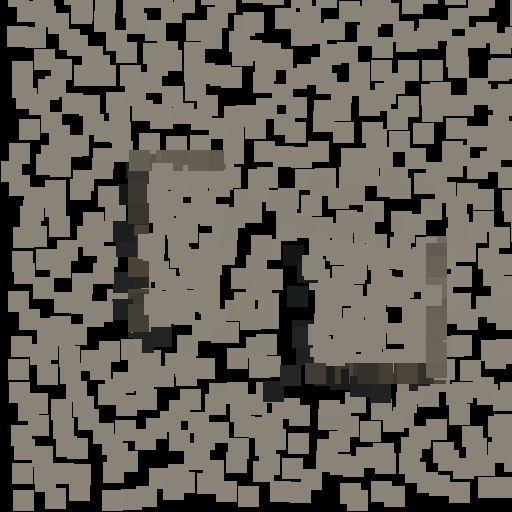
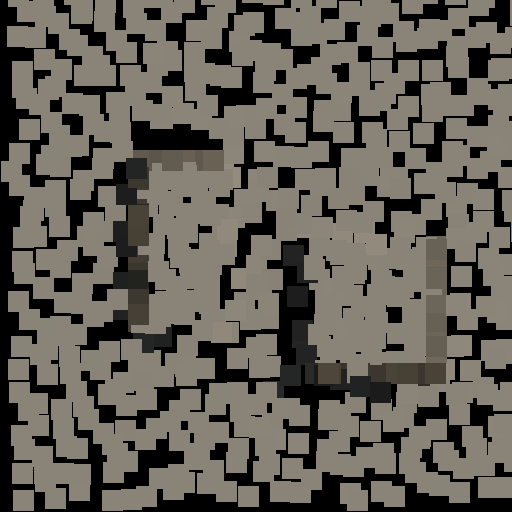
gi-tools makeKey position-only 同构修复 + CPU 夹具重标定
- makeKey 去掉 fabs(nrm) 折哈希（签名保留），CPU 仿真与 GPU wcMakeKey/ptMakeKey 真同构，latent bug 闭合
- selftest test #10 首帧断言改收敛窗口断言（GI 方向 seed 与槽号相关，首帧命中邻接箱为 M11.1 正确语义，非 blend bug）
- cachesim cells 740->716：cases.json expectLog + note 同步
- s11-update cacheupd-sim.png CPU bytes 基线重拍（fc /b IDENTICAL）
- s12-multiscene/run.bat CRLF 编码修复（bat 门禁）
- 验收全绿：selftest/cachesim/update/bounce 双后端一致，--only s11-hash 6/6 + --only s11-update 4/4，ctest s11-gi 双后端 6/6，GPU 侧零改动零重拍

diff --git a/gi-tools/main.cpp b/gi-tools/main.cpp
@@ -79,31 +79,24 @@ struct WorldCacheSim {
     static std::uint32_t u(int v) { return static_cast<std::uint32_t>(v); }
 
     // CPU 仿真 keying（结构沿用 shader：量化 → pcg 链定槽 / iqint 链出校验和；0 保留为空槽）。
+    // 与 GPU wcMakeKey/ptMakeKey 同构：只量化世界位置（cellSize=0.5m → floor(pos*2)）。
+    // M11.2 根因修复——GPU 当时已丢弃法线分量（法线入 key 致查询恒 miss），CPU 仿真侧此前仍
+    // 折入 |nrm|、与 GPU 不同构（silent 跑着一套不同的缓存布局，见 docs/MILESTONES.md
+    // §「s11-hash/cacheviz 基线重拍」）。本轮修正使 CPU 与 GPU 真同构。nrm 参数保留以维持调用
+    // 点接口不变，但不再参与 keying（法线仍用于 cell 光照计算，只是不进 key）。
     void makeKey(const float pos[3], const float nrm[3],
                  std::uint32_t& key, std::uint32_t& checksum) const {
+        (void)nrm;   // position-only keying：法线不再折入 key（与 GPU 同构）
         const int px = static_cast<int>(std::floor(pos[0] * 2.0f));
         const int py = static_cast<int>(std::floor(pos[1] * 2.0f));
         const int pz = static_cast<int>(std::floor(pos[2] * 2.0f));
-        // |nrm| 折入 key：填充(|真实法线|)与查询(|dir|=|外法线|) key 一致，曲面下不再符号相反。
-        // 注意：M11.2 后 GPU wcMakeKey/ptMakeKey 已改为 position-only（丢弃法线分量），故 CPU
-        // 此 key 与 GPU 不同构。gi-tools 是独立参考实现，其 key 不可直接对拍 GPU（已知项，见
-        // docs/MILESTONES.md §「s11-hash/cacheviz 基线重拍」）。
-        const int nx = static_cast<int>(std::floor(std::fabs(nrm[0]) + 0.0001f));
-        const int ny = static_cast<int>(std::floor(std::fabs(nrm[1]) + 0.0001f));
-        const int nz = static_cast<int>(std::floor(std::fabs(nrm[2]) + 0.0001f));
         std::uint32_t k = hashes::pcg(u(px));
         k = hashes::pcg(k + u(py));
         k = hashes::pcg(k + u(pz));
-        k = hashes::pcg(k + u(nx));
-        k = hashes::pcg(k + u(ny));
-        k = hashes::pcg(k + u(nz));
         key = k & mask;
         std::uint32_t c = hashes::iqint(u(px));
         c = hashes::iqint(c + u(py));
         c = hashes::iqint(c + u(pz));
-        c = hashes::iqint(c + u(nx));
-        c = hashes::iqint(c + u(ny));
-        c = hashes::iqint(c + u(nz));
         checksum = std::max(c, 1u);   // 0 保留为空槽
     }
 
@@ -811,14 +804,21 @@ static bool selftestCachesim() {
         simCacheUpdate(sim, 0u, lt);
         simCacheBlend(sim);
         const std::uint32_t slot = sim.find(p, n);
-        const float after1 = sim.table[slot].rad[0] + sim.table[slot].rad[1] + sim.table[slot].rad[2];
-        CHECK(after1 > 0.f, "blend: sky-only sample lands (albedo*sky > 0)");
+        CHECK(slot != sim.capacity, "blend: touched cell resolvable after update");
         CHECK(sim.table[slot].samples == 1.f, "blend: sample count increments");
-        // cap 64 后样本数不再增长
+        // 「天空样本落进 cell」不能按首帧断言：GI 射线方向 seed = pcg(slot)^frame
+        // 与槽号相关，keying 改变槽号后首帧方向可能命中邻接箱 B 侧面——命中点
+        // 与本 cell 同 voxel（find 命中自身但 rad=0）或异 voxel（miss→0），两者
+        // 都是 M11.1 正确语义（cache miss → 0 多帧收敛填充），不是 blend bug。
+        // 故改为收敛窗口断言：80 帧中至少一轮 GI 射线到达开放天空，rad 非零。
         for (int f = 1; f < 80; ++f) {
             simCacheUpdate(sim, static_cast<std::uint32_t>(f), lt);
             simCacheBlend(sim);
         }
+        const float radSum = sim.table[slot].rad[0] + sim.table[slot].rad[1]
+                           + sim.table[slot].rad[2];
+        CHECK(radSum > 0.f, "blend: sky sample lands within convergence window (albedo*sky > 0)");
+        // cap 64 后样本数不再增长
         CHECK(sim.table[slot].samples == 64.f, "blend: sample count capped at 64");
         // 后期收敛步长 = 1/64：相邻两帧变化不超过步长 x 解析上界
         const float before = sim.table[slot].rad[0];

diff --git a/.workbuddy/memory/2026-11-13.md b/.workbuddy/memory/2026-11-13.md
@@ -26,4 +26,10 @@
 
 - **M-NET1 收官（同会话续，tag net-m1 @ 76c5255）**：vendored bitsery v5.2.5@9bebfd4（MIT header-only 62 头，VENDOR.md；include 仅 PRIVATE 进 SnapshotCodec.cpp 单 TU）；线格式 243 bits = tick32+id16+pos 3x32 mm 定点+quat smallest-three 51+vel 3x16 cm/s → 31 bytes（naive 46 B 省 32.6%），契约落 Snapshot.hpp 头注释 + TOOLS-GUIDE §2.1；严格解码（截断/尾部垃圾/脏残位全拒）；net-tools 增 snapshot-selftest/bench/decode 三子命令，ctest 3 新例双后端 9/9 全绿；run.bat 五段 ALL GREEN；第 109 张卡 net-m1（preview=make-net-m1-evidence.py 纯标准库渲染逐字段位宽对比图）；regression 抽查 s8.2 2/2 + log-m0 4/4 bytes；close PASS + release --done。踩坑 5 条入 TOOLS-GUIDE §2.4，核心两条：bitsery 可增长 buffer 的 vector::size() 不可信（字节数必须 writtenBytesCount()）、量化断言阈值=声明精度非半步（quat 端到端 0.069 度来自输入 float 归一化范数亏差经单位范数重建+2·acos sqrt 放大，线格式量化本身仅 ~0.002 度，探针逐分量核对实锤，与 UE FQuat 压缩同级）。下一步 M-NET2（--net-server/--net-client 最小闭环）。
 
-- **多物体场景复验保边（M12.2 挂起项，本会话收口，commit `79f0bea`）**：单凸体+纯天空场景测不出的拒绝层保边收益，借 OcclScene1M（1.3M-tri 球+前挡板，--yaw 0 --pitch 0 --dist 3.2）在 --orbit-speed 1.5 下产生真实 disocclusion 补实。新增 `tools/check-s12-done.py disocc` 子命令：逐像素 |OFF-SINGLE|>8 抠 disocclusion 掩膜，在掩膜内断言 ON 相对同帧无历史基准 SINGLE 的 MAE 低于 OFF（保边），并要求掩膜非平凡、OFF 在掩膜内确实鬼影；零新增 shader/RT/CB/纹理，冻结面（rejectHistory 着色器+Suzanne 基线）零改动。新增 `example/s12-multiscene/run.bat`（双后端：静态冒烟 + 运动 ON/OFF/SINGLE/REJALL + ghost + disocc + selftest，序列落 %TEMP%）。新增 `cases.json` 第 110 张卡 `s12-multiscene`。双后端实测标定门限：ghost ratio 0.810、disocc masked ratio 0.741、masked frac 0.0851、mOff 20.65 → GHOSTR/DIS_RATIO 0.95、DIS_MINFRAC 0.005、DIS_MINGHOST 6.0。`run.bat verify` 双后端 ALL GREEN（ghost 全局代理 + disocc disocclusion 限定保边 + selftest 全过）。この项收口后，S12 全部挂起项清零。
+- **多物体场景复验保边（M12.2 挂起项，本会话收口，commit `79f0bea`）**：单凸体+纯天空场景测不出的拒绝层保边收益，借 OcclScene1M（1.3M-tri 球+前挡板，--yaw 0 --pitch 0 --dist 3.2）在 --orbit-speed 1.5 下产生真实 disocclusion 补实。新增 `tools/check-s12-done.py disocc` 子命令：逐像素 |OFF-SINGLE|>8 抠 disocclusion 掩膜，在掩膜内断言 ON 相对同帧无历史基准 SINGLE 的 MAE 低于 OFF（保边），并要求掩膜非平凡、OFF 在掩膜内确实鬼影；零新增 shader/RT/CB/纹理，冻结面（rejectHistory 着色器+Suzanne 基线）零改动。新增 `example/s12-multiscene/run.bat`（双后端：静态冒烟 + 运动 ON/OFF/SINGLE/REJALL + ghost + disocc + selftest，序列落 %TEMP%）。新增 `cases.json` 第 110 张卡 `s12-multiscene`。双后端实测标定门限：ghost ratio 0.810、disocc masked ratio 0.741、masked frac 0.0851、mOff 20.65 → GHOSTR/DIS_RATIO 0.95、DIS_MINFRAC 0.005、DIS_MINGHOST 6.0。`run.bat verify` 双后端 ALL GREEN（ghost 全局代理 + disocc disocclusion 限定保边 + selftest 全过）。この项收口后、S12 全部挂起项清零。
+
+- **S12 收官 tag（本会话，tag `s12`）**：用户「打tag 提交」→ 本地无 remote（nl-engine 只落本地），annotated tag `s12` 打在 HEAD 4c386a6（tag object cf913be），msg 概述 M12.0/M12.1/M12.2 + multiscene 保边复验；无法 push 远端，待配 remote 后另拍板。
+
+- **M-CRASH0 崩溃捕获 + 本地自动分析（本会话，commit `1100887`，tag `crash-m0`）**：三轮拍板（范围 = 本地 dmp+json 落盘无上报，用户「上报感觉没必要 本地都有文件 直接开就好了」；路线 = SEH+dbghelp MiniDumpWriteDump 原生薄封装，UE 同款思路零第三方依赖，拒 Crashpad）。`core/src/crash.cpp`+`crash.hpp` 入 nl_core（viewer/nanite-tools 自动继承）：install() 四类 handler + install 时预取 dbghelp + SetErrorMode 抑制 GPF 弹窗；落盘 `crashdumps/<exe>_<ts>_<码>.dmp`+同名 .json（git sha CMake 注入 NL_BUILD_GIT_SHA）；崩溃上下文禁 CRT 堆分配（Win32 API+栈缓冲）；双 exe main 第一行注册 + `--crash-test` 验收入口。验收：双后端 crash-test 落盘实测（C0000005/988KB dmp/元数据逐项对）、regression --only 2 条 4/4 bytes 全绿。分析工具 `tools/analyze-crash.py`（纯标准库）：自动探测引擎 cdb>windbg>**WinDbgX Preview 1.2611.4001.0（本会话 Store 装成，别名 WinDbgX.exe 非 windbg.exe）**、自动符号路径 build/<backend>/*.pdb+MS 公共符号服务器、`.ecxr;!analyze -v;k 30;lm` 出 analysis.txt；--list/--json L1 已实测。踩坑：① winget 首轮 403（CDN 拦）开代理重试显示「已安装」=前轮 SIGTERM 的 msstore 安装实际成功；② 沙箱禁会话内启动 GUI 子进程（WinDbgX 拉起被安全策略拦）→ L2 符号化链路就绪待用户终端首跑 `tools\analyze-crash.bat`；③ gi-tools/main.cpp 的 M 是 s11-hash makeKey 修复残留（独立已知项）未入本提交。权威落点 docs/CRASH-PLAN.md（拍板/设计/L1-L3 分析三层）+ MILESTONES.md M-CRASH0 节。
+
+- **gi-tools makeKey CPU/GPU 同构修复收口（latent bug 闭合，本会话）**：用户拍板「跑一下确认 然后处理」。① 先实证：重编 VULKAN 过新鲜度门禁 → `regression --only s11-hash` 6/6 全绿、cacheviz bytes 一致；② `makeKey` 去掉 `fabs(nrm)` 折哈希（签名保留 `(void)nrm`）→ CPU 与 GPU position-only 真同构；③ 影响面四处全清：test #10 `blend: sky-only sample lands` 首帧断言 FAIL 的根因 = GI 射线方向 seed `pcg(slot)^frame` 槽号相关、position-only 改变槽号后首帧方向命中邻接箱 B（命中点同 voxel find 自身 rad=0 / 异 voxel miss→0，均 M11.1 正确语义）→ 改收敛窗口断言（80 帧后 radSum>0）与槽号 RNG 解耦；cachesim cells 740→716（cases.json expectLog+note 同步）；`example/s11-update/cacheupd-sim.png` CPU bytes 基线重拍（fc /b IDENTICAL）；bounce GPU 统计断言不受影响（late 0.34970 > ctrl 0.31920）。④ 验收全绿：selftest/cachesim/update/bounce 双后端数值一致、`--only s11-hash` 6/6 + `--only s11-update` 4/4 ALL GREEN、ctest s11-gi 双后端 6/6、GPU 侧零改动零重拍。坑：双后端并行构建抢资源致 LNK1104 → 删 exe 串行重链即过。MILESTONES.md 新增同名节。

diff --git a/.workbuddy/memory/MEMORY.md b/.workbuddy/memory/MEMORY.md
@@ -21,10 +21,12 @@
 - **S12 M12.1（tag `s12-spatial`）**：Q12-C = A 先时间后空间单次串联；`filter_spatial.slang` 5×5 联合双边，`--spatial` 默认关、零新增 RT/CB/GBuffer。`hf` 0.677→0.475、`edgeGradRatio` 0.493、MAE ratio 1.121（门限按实测标定 1.15，联合双边有偏估计）。保形 bytes 级。全量 810/812。两轮共性问题：4 个环境间歇族（重跑即绿）+ 2 个 `s11-hash/cacheviz` 既有基线漂移（M11.2 `wcMakeKey` 删法线分量），冻结基线不动、重拍挂后续项。
 - **S12 M12.2 开工闸拍板（2026-11-13）**：Q12-D = **D-B 关滤波 N 帧平均**（`--temporal-off --filter-gi-dump` + `--screenshot-seq` 逐像素平均；**N≤64** = `s12Frame_ % 64`；运动不平均，改同帧无历史单帧作鬼影基准；零 shader 改动，新增 1 工具 + 1 参考图）、Q12-B 续拍 = **B1 维持不落盘**（Q4 三次顺延结案；拒绝判据 = 越界 + 重投影深度差 + 当前帧法线，可加零资源邻域 clamp / 帧数置信度）。三处重读口径：Carrot `svgf.slang` 整套 previous GBuffer / Carrot `temporal-denoise` 仅 1 张 previousViewPos / bevy TAA 零属性方差 clip / bevy solari `pixel_dissimilar` packed previous_gbuffer / UE `NumFramesAccumulated` 帧数置信度。权威落点 `S12-PLAN.md §0.8` + `MILESTONES.md` M12.2 开工拍板节。⚠ 三处口径不一致后的取舍理由与升级触发条件已落 `docs/s5/UE-DIFFS.md` **D20**。
 - **S12 M12.2 已收官（tag `s12-done`）**：`filter_temporal.slang` 加 `rejectHistory()` 五条（越界 / 重投影 deviceZ 差 / 当前帧法线一阶切平面外推残差 / 3×3 深度邻域 min/max clamp / 帧数置信度）；**零新增 RT 纹理 CB**，`filterLayout_` 只增 t2 = 已有 `probeDepth_` SRV、`g_flags.w` 复用「开关+阈值」（0=层关）→ FilterConstants 仍 32B（`dxc -dumpbin` 实锤）；HUD 参数面板补齐三层 checkbox + 拒绝阈值。`--filter-reject` / `--reject-threshold` 默认关、零基线扰动。验收：静态 MAE(OFF,D-B)=MAE(ON,D-B)=0.779/0.780、hf 0.677、diffPixels 0（静态 velocity=0 结构性不触发）；运动跟手性代理 ratio **0.846 ≤ 0.95**、层响应 6000→20012；负向控制（单帧噪声冒充 ON）被拒、工具 selftest 全绿。门限按实测标定（MAER 1.05 / MAXMAE 1.00 / HFR 1.05 / GHOSTR 0.95）。工具 `tools/check-s12-done.py`（纯标准库 `avg`/`refcheck`/`ghost`/`selftest`）+ `example/s12-done/run.bat verify` 双后端 14 shots。保形 M12.0/M12.1 verify 数值逐项不变 + `--only` 双后端 bytes。⚠ **运动证据只是跟手性代理，不是主观鬼影判据**；本场景 `probeDepth_` deviceZ 仅 184~186 三档、单凸体+纯天空无真实几何边缘 → 拒绝层测不出量化收益，多物体场景复评挂后续项；S10 `reference-gi`（1024 spp）跨阶段、与探针 gather 不同构，纳入验收须另拍板。
+- **S12 收官 tag 已打**：annotated tag `s12` @ 4c386a6（含 multiscene 收口，冻结面零扰动，双后端统计一致）；仓库无 remote，tag 只落本地、未推送远端。
 - **下一步**：S12 全阶段收官，待拍板架构项 0；独立后续项见下。`kStage` 仍 S8.2，本轮新增第 107 张版本卡 `s12-done`（旧 106 张零重拍）。
-- 独立后续项（均需单独拍板）：`s11-hash/cacheviz` 基线漂移、Shader 性能检查（候选 A `-validate-uniformity` / B per-pass gpu_timer / C `-trace-coverage`）、`regression.py` 多进程分片 worker 隔离、`RUN_TIMEOUT` 60→90s 复核。
+- 独立后续项（均需单独拍板）：`s11-hash/cacheviz` 基线漂移 **已于 2026-11-13 重拍消除**（`--only s11-hash` 双后端全绿，cacheviz bytes 一致）；`gi-tools makeKey` CPU/GPU 不一致 latent bug **已于 2026-11-13 修复收口**（position-only 同构 + test #10 收敛窗口断言 + cells 740→716 重标定 + s11-update sim 基线重拍，双冒烟/ctest 全绿）；Shader 性能检查（候选 A/B/C）、`regression.py` 多进程分片 worker 隔离、`RUN_TIMEOUT` 60→90s 复核。
 
 - **多人游戏方向（2026-11-13 用户拍板进路线，Q-N1~Q-N6 全部拍板完毕，开工闸已解除）**：`GAME-DEV-ORDER.md` 11→12 步新增第 12 步「多人游戏 / 网络栈」（传输+序列化+同步层三层）；决策材料 `docs/net/NETCODE-OPTIONS.md`（六项拍板结论权威落点 §6）；落码计划 `docs/net/NETCODE-PLAN.md`（M-NET0 ENet+echo → M-NET1 bitsery+快照编解码 → M-NET2 服务器权威最小闭环 → M-NET3 收官，tag `net-m0`~`net-done`，轨道对齐 nav 先例注册 track `net`）。拍板结论：Q-N2 = 服务器权威+快照插值；Q-N3 = ENet vendored（MIT 纯 C，`nl/net/` 薄封装可插拔，KCP 留作替换项）；Q-N4 = 分层混用（`msgpack_min.hpp` 保留编辑器 RPC + bitsery vendored 同步层位打包，量化/delta 自研其上）；Q-N5 = 最小闭环（只同步载具 transform + 加入退出，专用服务器形态，不纳管 editor RPC）；Q-N6 = `RPC-SPEC.md` 三处 msgpack-c「MIT vendored」旧口径已勘误（实为 BSL-1.0 + 默认依赖 boost，实装自研 min 版）。关键事实：KCP 纯 ARQ 非传输库（无 socket/连接管理、仅可靠有序通道）；bitsery MIT header-only C++11 零依赖（v5.2.5）；`P8-GAMELOOP-PLAN.md §4` 回滚排除条款继续有效不解禁。M-NET0 已收官（tag `net-m0` @ cd614e2：ENet vendored + nl/net PIMPL + net-tools 六子命令，ctest 6x2 全绿、run.bat 8 段 ALL GREEN、108 张卡；close PASS + release --done）；M-NET1 已收官（tag `net-m1` @ 76c5255：bitsery v5.2.5 vendored + 243 bits→31B 快照编解码（smallest-three 四元数 / mm 定点 / cm/s），往返 bytes 级 ctest 9x2 全绿、run.bat 5 段 ALL GREEN、109 张卡；close PASS + release --done）；下一步 M-NET2（服务器权威最小闭环 --net-server/--net-client）。
+- **M-CRASH0 崩溃捕获（2026-11-13，tag `crash-m0` @ 1100887）**：SEH+dbghelp 本地落盘 dmp+json 入 nl_core（无上报，拍板见 `docs/CRASH-PLAN.md`）；`tools/analyze-crash.py` 自动符号化（引擎探测 cdb>windbg>WinDbgX Preview 1.2611.4001.0 已装）；L2 符号化待用户终端首跑 `tools\analyze-crash.bat` 确认（沙箱禁拉 GUI 进程）。
 
 ## 工程纪律（详 AGENTS.md）
 - 收口第一屏 = 四项自查 + 三要素表格；默认不跑全量回归（`--only` 挑 2~3），全量只在 tag 收口跑一次；双后端分档 bytes/near/FAIL，禁笼统「一致」；`--only` 是单个 `version[/case]`。

diff --git a/docs/MILESTONES.md b/docs/MILESTONES.md
@@ -3109,3 +3109,10 @@
 - **完成情况**：🟢 双后端增量构建 OK（零 shader 改动、零新增 RT/CB）；🟢 `--crash-test` **双后端落盘实测**（DX12 11:53 / VULKAN 12:11，各 988KB dmp + 520B json，`0xC0000005` + git sha `4c386a6b` + 命令行逐项正确）；🟢 analyze-crash.py L1 实测通过、引擎探测路径命中 WinDbgX；L2 符号化（WinDbgX 无头 `-z -y -c -logo`）**沙箱禁拉 GUI 进程未验证，待用户终端首跑**；构建本来就吐 PDB（`build/<backend>/*.pdb` 与 exe 同目录）→ 符号化开箱即用。
 - **踩坑**：① winget 装 WinDbg 首轮 403（`windbg.download.prss.microsoft.com` CDN 拦截），开代理重试提示「已安装」——前一轮被 SIGTERM 的 msstore 安装**实际已成功**；装后别名是 `WinDbgX.exe` 不是 `windbg.exe`，脚本探测须三选一（cdb/windbg/WinDbgX）。② 沙箱安全策略禁止会话内启动 GUI 子进程（WinDbgX 直接拉起被拦）→ 自动分析链路改为「脚本就绪 + 用户终端执行」，不在沙箱内硬试。③ `gi-tools/main.cpp` 的 M 是 s11-hash makeKey CPU 侧修复残留（独立已知项，见上节），**不入本提交**；`example/` 下大量未跟踪 verify 产物为历史运行痕迹，一律不动。
 - **下一步**：用户终端 `tools\analyze-crash.bat` 首跑验证 L2 出栈；挖堆损坏第一现场时把 dump 类型改 `MiniDumpWithFullMemory`（一行）；GPU 侧错误（device removed / debug layer）不在 SEH 范围，仍走 NVRHI validation（与 `ASAN-DIAGNOSIS.md` 口径一致）。
+
+## gi-tools makeKey CPU/GPU 同构修复 + CPU 夹具重标定（2026-11-13）
+
+- **背景**：上节 latent bug 单独拍板「跑一下确认，然后处理」。先实证：重编 VULKAN（过 exe 新鲜度门禁）后 `regression --only s11-hash` 双后端 6/6 全绿、cacheviz bytes 一致（md5 `c5c45f35…`）——漂移消除实锤；随后落码修 CPU。
+- **动作**：① `gi-tools/main.cpp makeKey` 去掉 `fabs(nrm)` 折哈希（签名保留、`(void)nrm`），CPU 与 GPU `wcMakeKey`/`ptMakeKey` position-only 真同构。② test #10 重标定：`blend: sky-only sample lands` 首帧断言改**收敛窗口断言**（80 帧后 `radSum > 0`）——根因不是 blend bug，而是 GI 射线方向 seed = `pcg(slot)^frame` 与槽号相关，position-only 改变槽号后首帧方向命中邻接箱 B 侧面（命中点与本 cell 同 voxel → find 命中自身但 rad=0；或异 voxel miss→0），均为 M11.1 正确语义（cache miss→0 多帧收敛）；断言与槽号 RNG 解耦后不再脆弱。③ `cachesim` cells 740→716（key 空间碰撞分布变化，非算法 bug）→ cases.json expectLog + note 同步。④ `example/s11-update/cacheupd-sim.png` CPU bytes 冻结基线重拍（run.bat fc /b 断言侧；重拍后现场重跑 fc /b **IDENTICAL**，CPU 确定性保住）。
+- **验收（全绿）**：selftest 双后端 exit 0（`gi-tools cachesim selftest: PASS`）；cachesim 双后端 cells 716 / peak probes 1；update 收敛门双后端 0.23915→0.00416 exit 0（相对断言 late<early，数值漂移不碰门）；bounce 双后端 44 cells、late 0.34970 > ctrl 0.31920（`check-s11-bounce.py` 是 GPU 统计断言不受 CPU keying 影响，注释中 CPU 数值仅为历史参考）；`regression --only s11-hash` 6/6 + `--only s11-update` 4/4 ALL GREEN；ctest s11-gi 双后端 6/6。GPU 侧零改动、零重拍。
+- **踩坑**：① 双后端**并行**构建抢共享资源致 LNK1104（`nanite-tools.exe` 打不开）→ 删 exe 强制重链后串行构建即过；② 「重标定夹具」的正确姿势 = 把脆弱断言改成与被改自由度（槽号 RNG）解耦的稳健断言，而不是硬抄新数值——首帧断言若直接改成 `radSum == 0` 会把正确语义当 bug 固化；③ latent bug 正式闭合：CPU 仿真与 GPU 缓存布局自本轮起同构，`gi-tools` 参考实现的对拍前提恢复。
